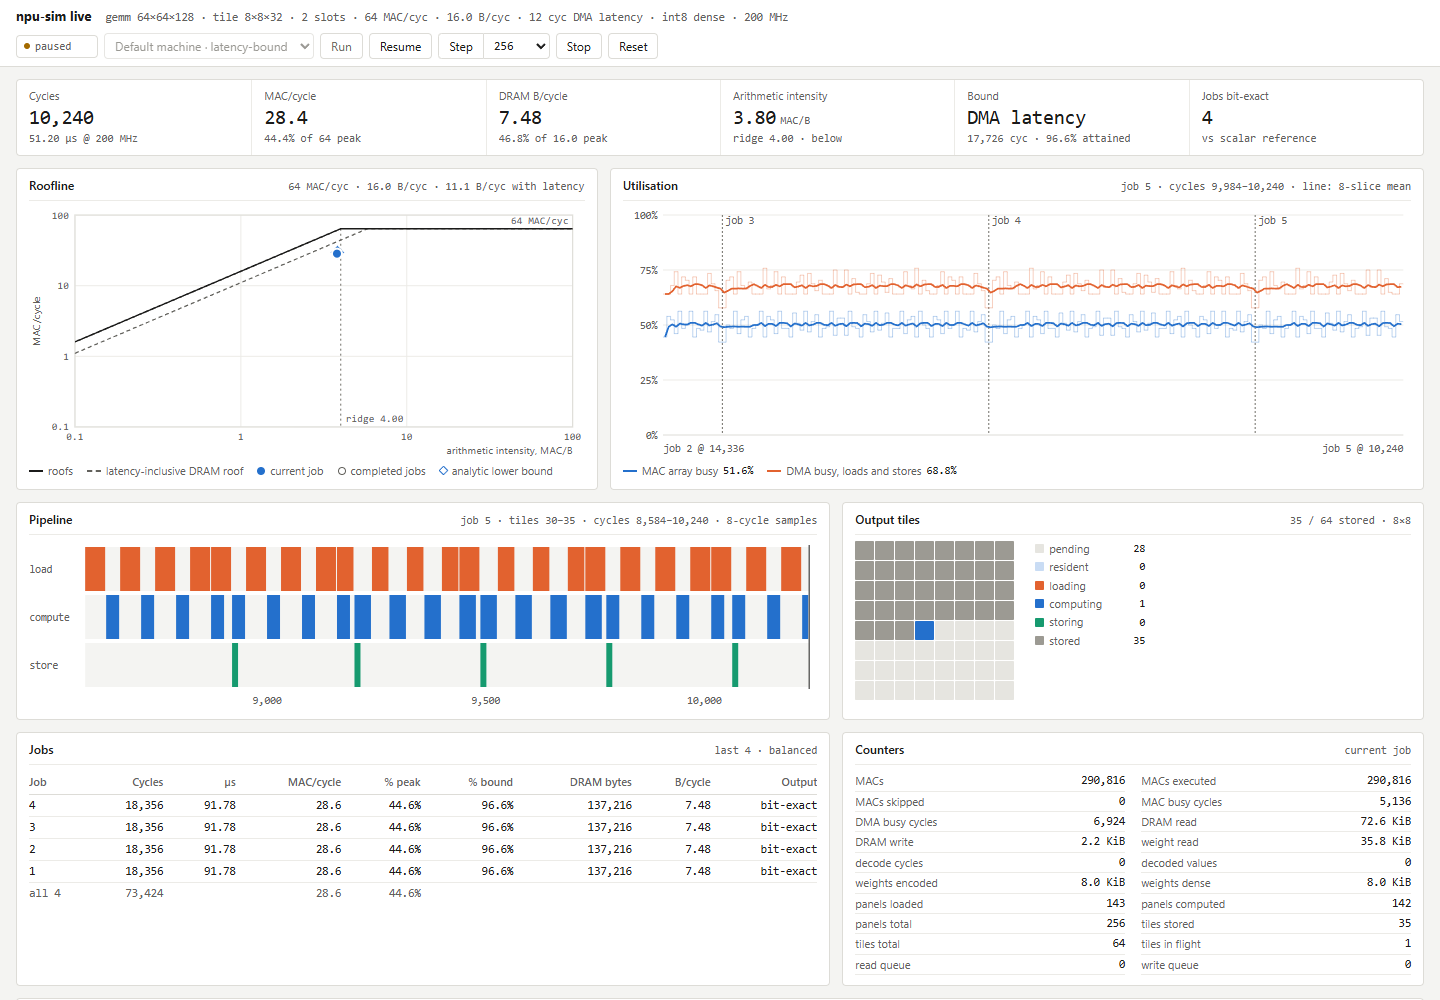
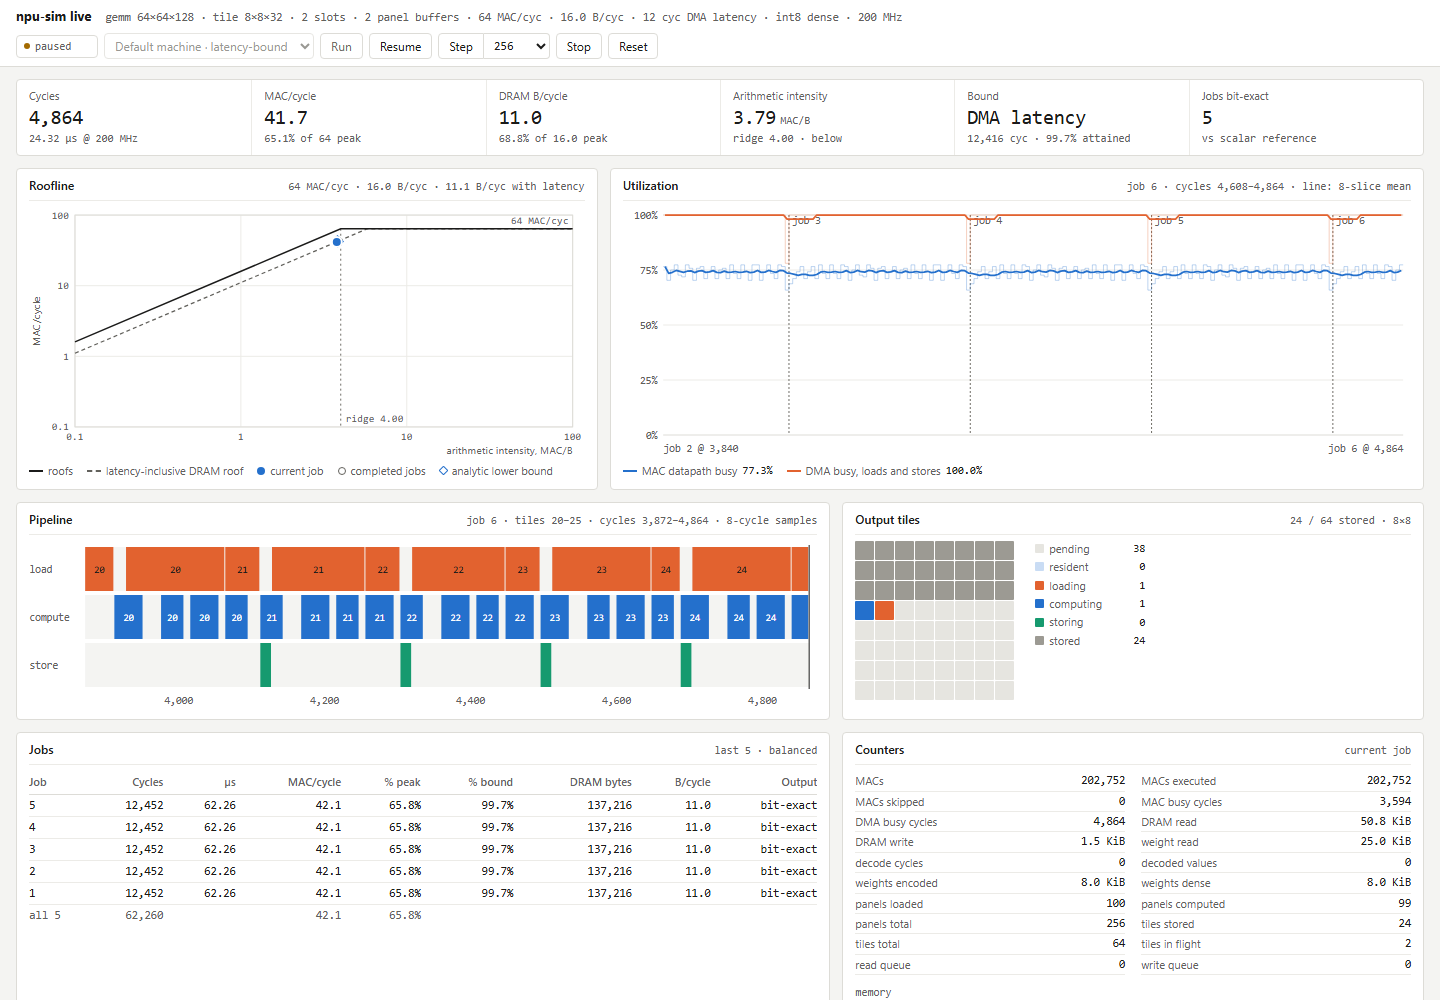
Label the dashboard's MAC series by datapath and retake the screenshot
The strip-chart legend reads MAC datapath busy, the term of
docs/architecture.md section 3; the default profile runs on the vector
datapath. The screenshot is taken from the current page, with the
Utilization heading and two panel buffers per slot.

diff --git a/web/app.js b/web/app.js
@@ -221,7 +221,6 @@ function renderKpis(value) {
     text("kpi-bound-detail", `${int(analysis.lower_bound_cycles)} cyc` +
       (attained === null ? " lower bound" : ` · ${percent(attained)} attained`));
   } else if (isNum(t.compute_busy_cycles) && isNum(t.dma_busy_cycles) && t.cycles > 0) {
-    // Without an analytic model for this design the panel shows MAC and DMA busy fractions.
     text("kpi-bound", "—");
     text("kpi-bound-detail", `no analytic bound · MAC ${percent(t.compute_busy_cycles / t.cycles, 0)}` +
       ` DMA ${percent(t.dma_busy_cycles / t.cycles, 0)} busy`);

diff --git a/web/index.html b/web/index.html
@@ -87,7 +87,7 @@
       <figcaption><h2>Utilization</h2><span class="meta" id="strip-meta"></span></figcaption>
       <svg id="strip" class="chart" role="img" tabindex="0" aria-label="Utilization per slice"></svg>
       <ul class="legend">
-        <li><i class="key series-mac"></i>MAC array busy <b id="strip-mac">—</b></li>
+        <li><i class="key series-mac"></i>MAC datapath busy <b id="strip-mac">—</b></li>
         <li><i class="key series-dma"></i>DMA busy, loads and stores <b id="strip-dma">—</b></li>
       </ul>
     </figure>
